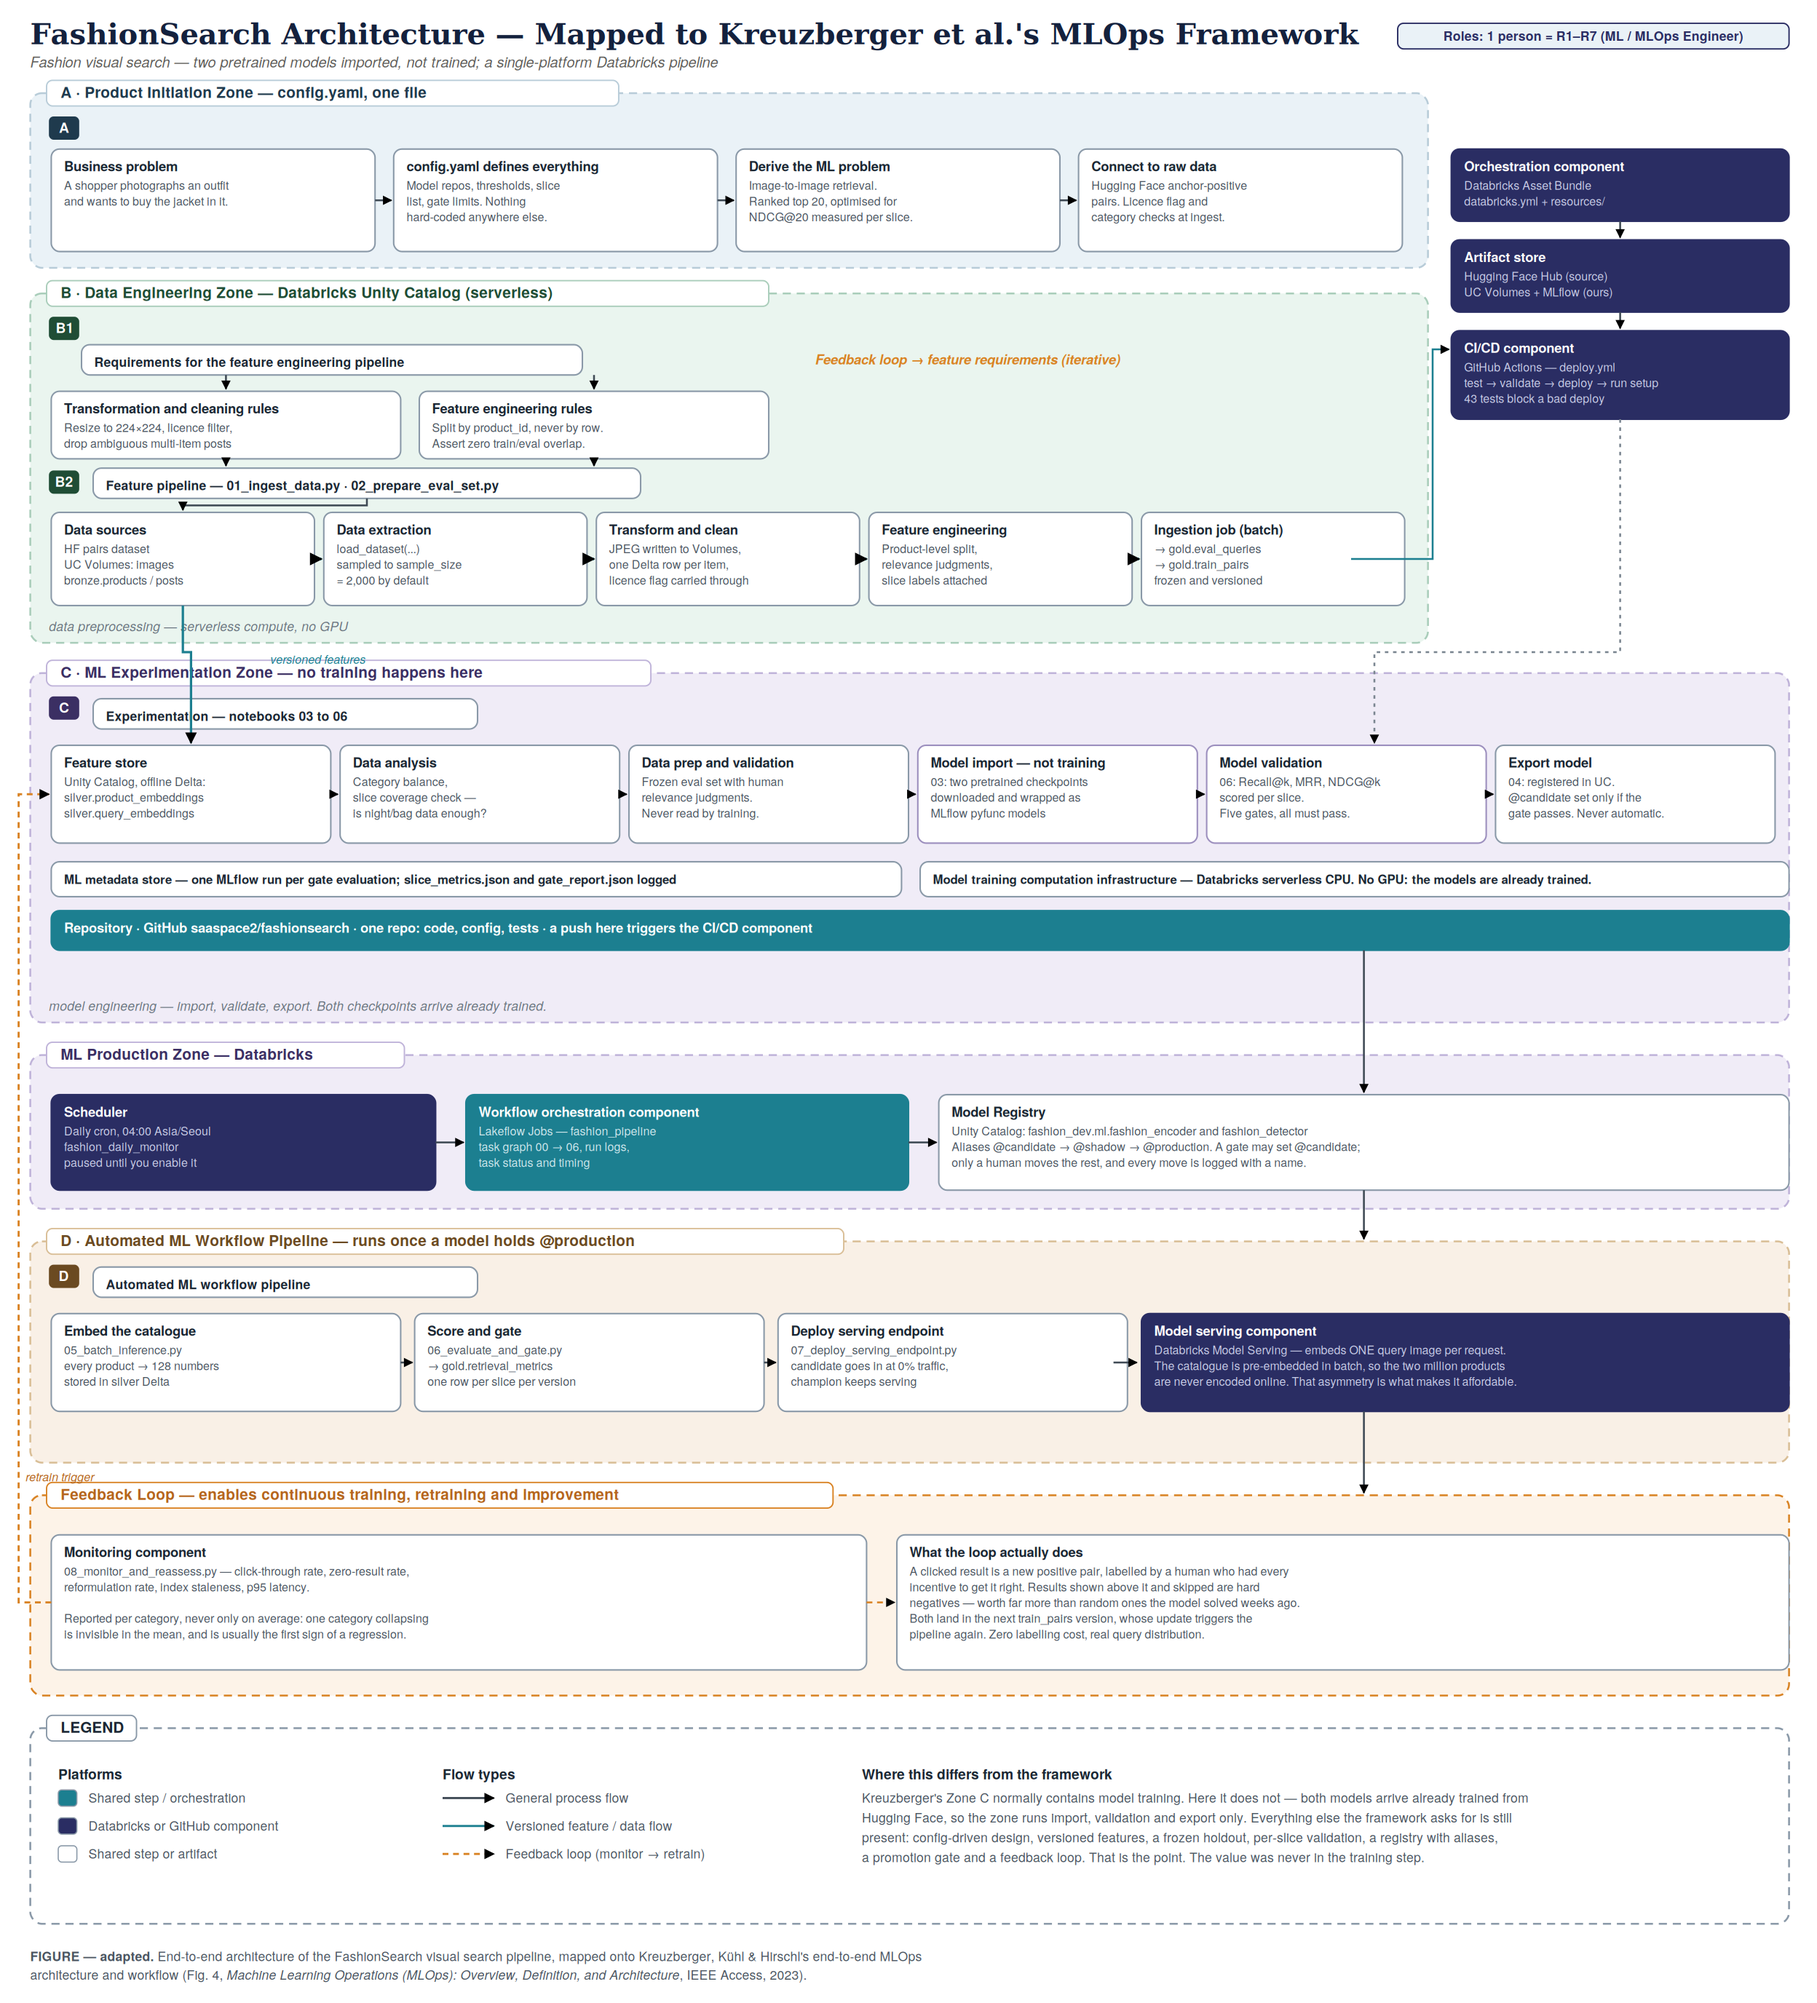
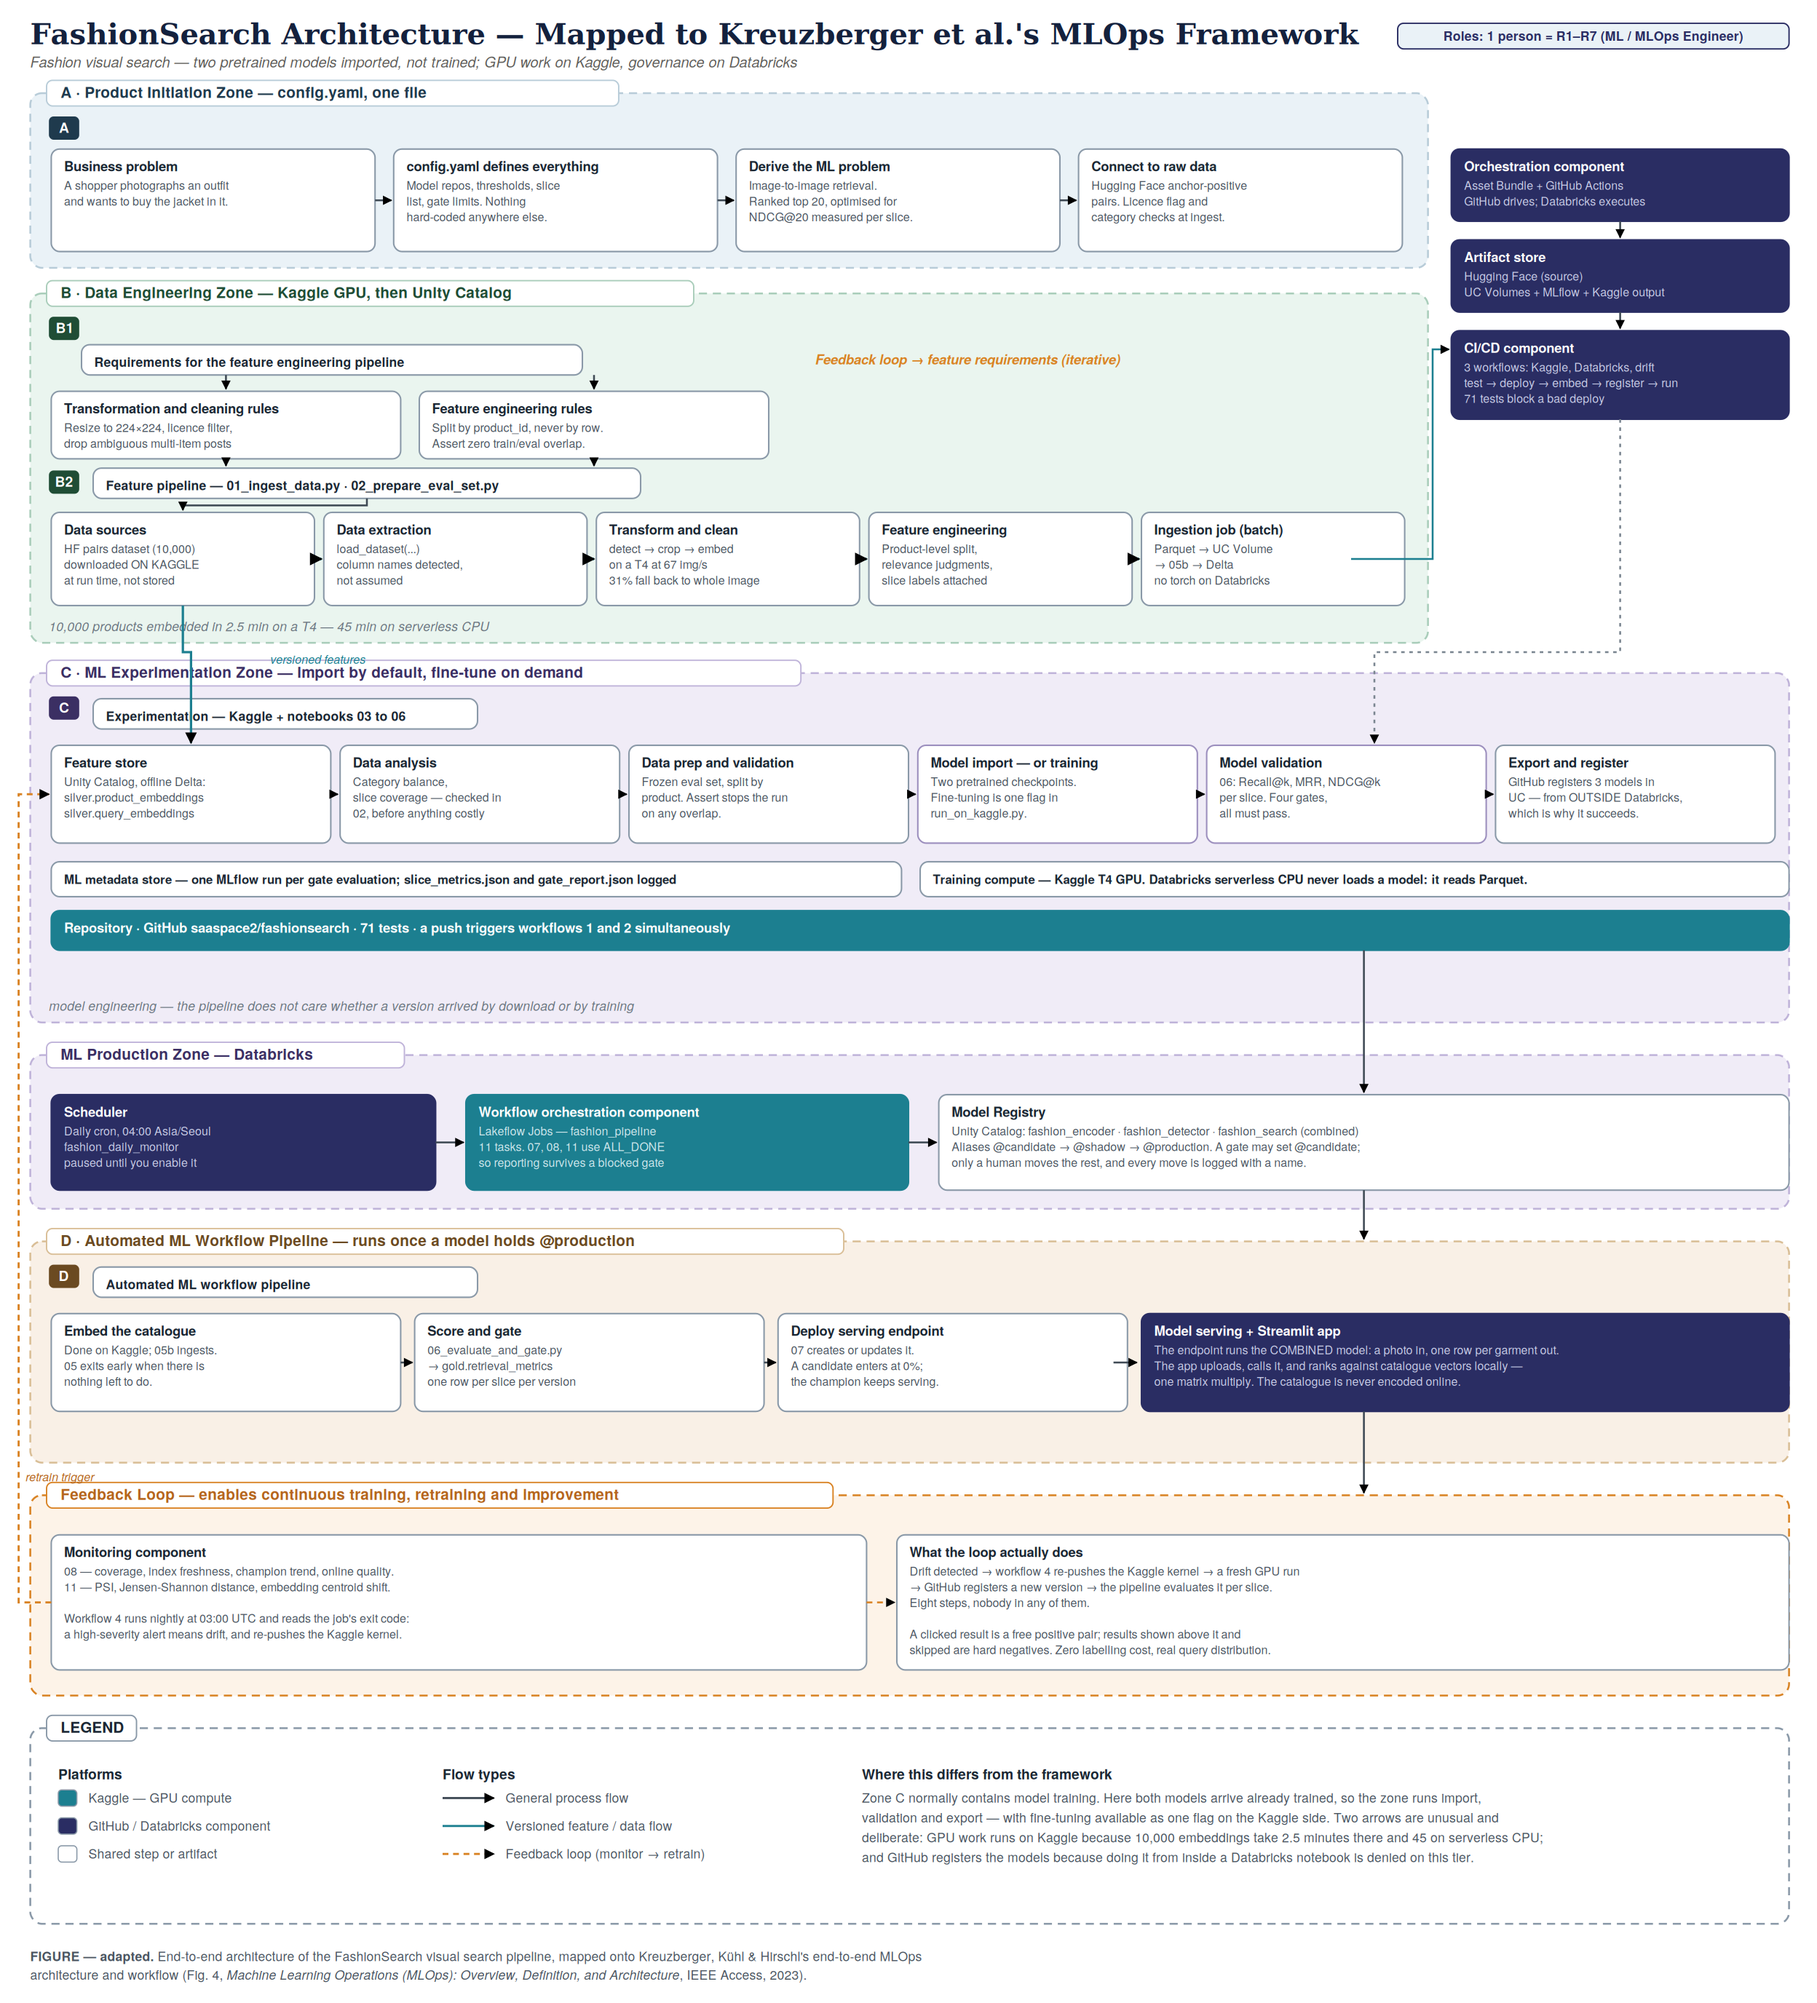
Deploy multi-item search model

diff --git a/notebooks/08_monitor_and_reassess.py b/notebooks/08_monitor_and_reassess.py
@@ -79,8 +79,14 @@ if fresh and fresh["hours"] is not None:
     print(f"  last embedded : {fresh['last_embedded']}")
     print(f"  age           : {fresh['hours']} h  (limit {max_hours:.0f} h)")
     if fresh["hours"] > max_hours:
-        alert("index_stale", "high", float(fresh["hours"]),
-              "search may be returning products that no longer exist")
+        # Graded rather than binary. Slightly over the limit is worth noting;
+        # four times over means the pipeline has genuinely stopped running, and
+        # only that deserves to fail the job and wake somebody.
+        severity = "high" if fresh["hours"] > max_hours * 4 else "warning"
+        alert("index_stale", severity, float(fresh["hours"]),
+              f"embeddings are {fresh['hours']:.0f}h old (limit {max_hours:.0f}h). "
+              f"Search may be returning products that no longer exist. "
+              f"Re-run the pipeline to refresh them.")
 else:
     alert("no_index", "high", 0.0, "no embeddings at all — run notebook 05")
 
